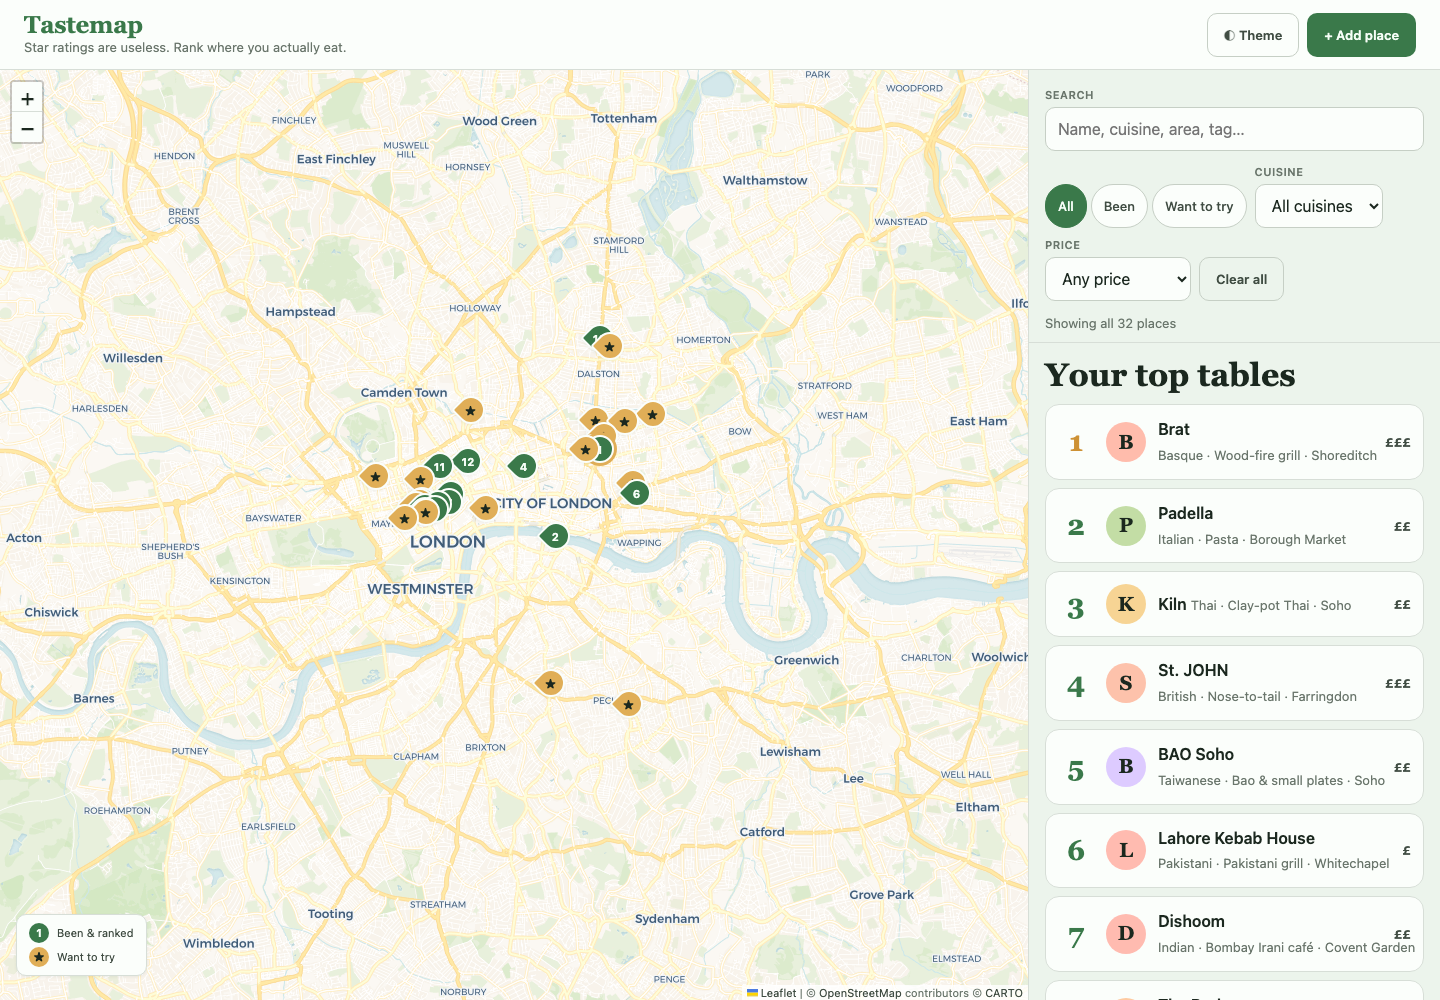
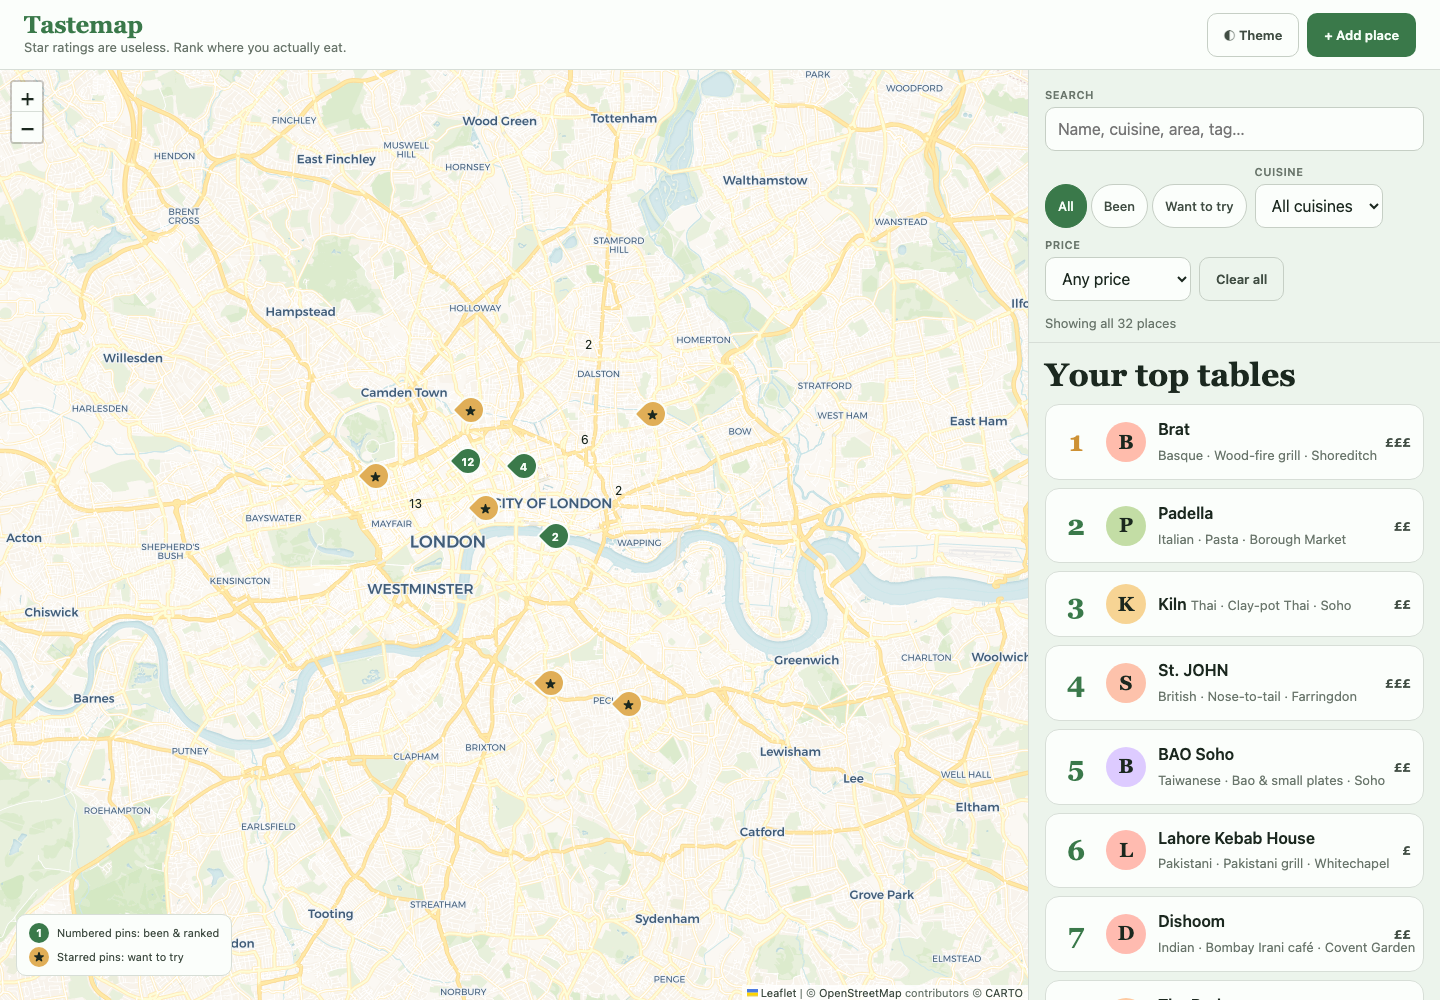
Document clustering, the URL guard, and the offline-safe load

diff --git a/restaurant-ranking-app/README.md b/restaurant-ranking-app/README.md
@@ -43,14 +43,14 @@ Then visit http://localhost:8000/restaurant-ranking-app/.
 
 - Semantic HTML5 with `header`, `main`, `aside`, and `dialog`-role overlays
 - CSS custom properties, split into `tokens.css` (the design system) and `style.css` (the components that consume it)
-- [Leaflet](https://leafletjs.com) for the map, with CARTO tiles
+- [Leaflet](https://leafletjs.com) with [Leaflet.markercluster](https://github.com/Leaflet/Leaflet.markercluster) for the map, on CARTO tiles
 - Vanilla JavaScript, no framework or build step
 - `localStorage` for persistence, seeded from `data/sample-places.json`
 
 ### Features
 
 - **Ranking by comparison** — adding a place you have been to opens a duel: two places, pick the better one. The flow binary-searches the existing order, so placing a 15th restaurant takes about four questions rather than fourteen. Arrow keys choose, `T` records a tie, `Esc` bails out.
-- **Map and list side by side** — 32 pins, cuisine-tinted avatars, ranked pins numbered and wishlist pins starred. Below the breakpoint the two become tabs.
+- **Map and list side by side** — 32 pins, cuisine-tinted avatars, ranked pins numbered and wishlist pins starred. Nearby pins cluster, so the seven places packed into Soho stay tappable; choosing one from the list expands its cluster rather than panning to a pin that is still hidden inside it. Below the breakpoint map and list become tabs.
 - **Filters** — free-text search across name, cuisine, area, and tags, plus status, cuisine, and price filters, with a live result count announced politely.
 - **Detail sheet** — per-place notes, address, and a website link only when one exists.
 - **Light and dark themes**, remembered across visits.
@@ -63,11 +63,12 @@ The lesson is about failure mode, not about tokens. A stylesheet that consumes v
 
 The comparison flow was the other thing worth getting right. A naive implementation compares a new place against every ranked place, which is fine at 14 and miserable at 100. Treating the ranked list as sorted and binary-searching the insertion point turns that into a logarithmic number of questions — the "Question 1 of ~4" estimate the duel shows is `ceil(log2(n))`.
 
+Two smaller lessons came from re-reading the data layer. Escaping a URL for HTML does nothing about its scheme: `javascript:alert(1)` survives `esc()` untouched and runs when the link is clicked, so the website field is now parsed with `new URL()` and only rendered when the protocol is `http:` or `https:`. And the seed fetch used to run before saved data was consulted, which meant a second visit without a network hid places the visitor already had — saved data is now read first, and the fetch only has to succeed on a genuine first visit.
+
 ### Continued development
 
 - Split `script.js` and `style.css`; both run long enough that map, ranking, and form concerns would be clearer as separate modules
 - Recompute the order from the stored comparison history rather than persisting resolved positions, so an early answer can be revised
-- Cluster the dense Soho pins, which overlap at low zoom
 
 ## Author
 
